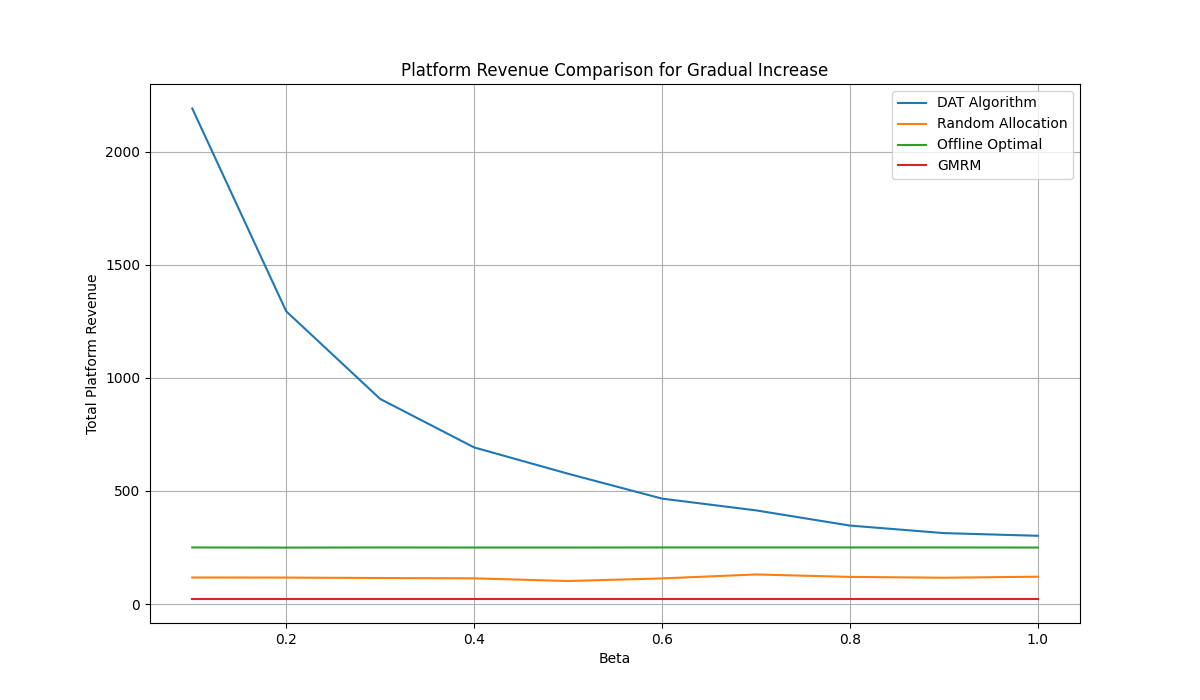
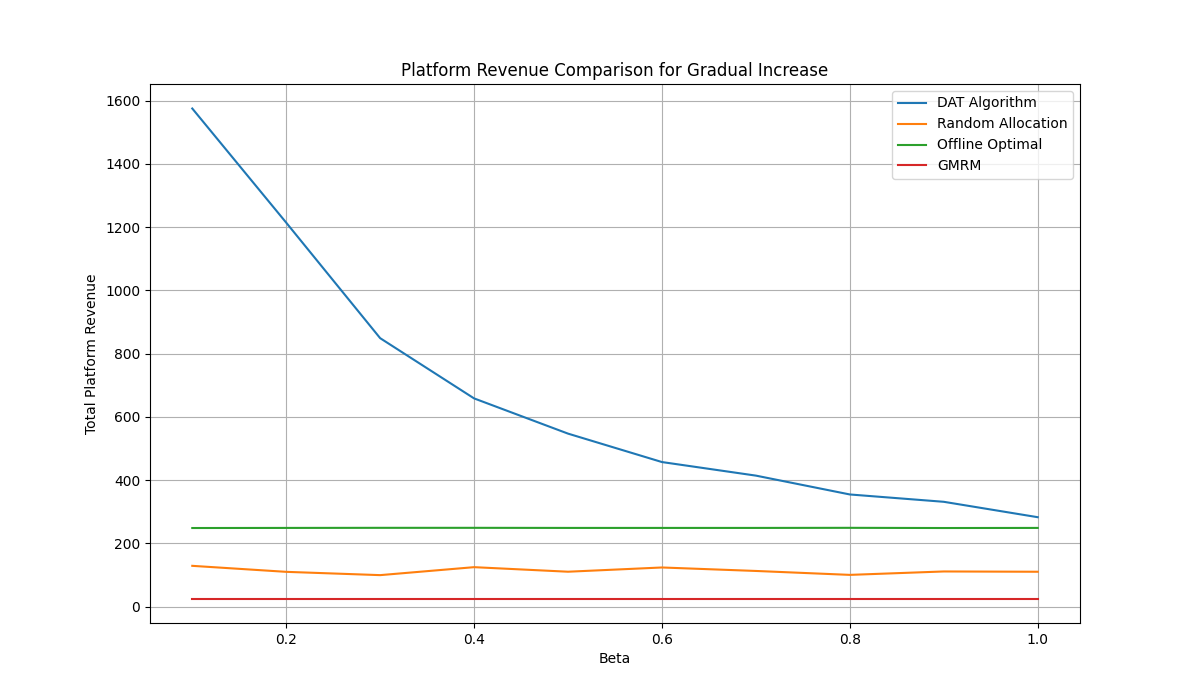
update payment

diff --git a/simulation.py b/simulation.py
@@ -71,6 +71,30 @@ class Simulator:
     def simulate_dat_algorithm(self, users, resources):
         platform = DATCloudPlatform(users, resources)
         return platform.allocate_resources(self.FIXED_PRICE, self.ALPHA)
+    
+    # Calculate VCG price
+    def update_fixed_price(self):
+        # Calculate the total revenue with all users
+        total_value_with_all = self.calculate_offline_optimal_revenue(self.users, self.resources)
+
+        vcg_payments = []
+        for user in self.users:
+            # Temporarily exclude the current user from the list
+            users_without_current = [u for u in self.users if u.id != user.id]
+
+            # Calculate the total revenue without the current user
+            total_value_without_user = self.calculate_offline_optimal_revenue(users_without_current, self.resources)
+
+            # The VCG payment for the current user is the difference in total value
+            vcg_payment = total_value_with_all - total_value_without_user
+            vcg_payments.append(vcg_payment)
+
+        # Update FIXED_PRICE based on the VCG payments
+        if vcg_payments:  # Ensure the list is not empty to avoid division by zero
+            self.FIXED_PRICE = sum(vcg_payments)* BETA
+        else:
+            self.FIXED_PRICE = 0  # Or some default value if no users exist
+        return self.FIXED_PRICE
 
     # Function for random allocation simulation
     def simulate_random_allocation(self, users, resources):
